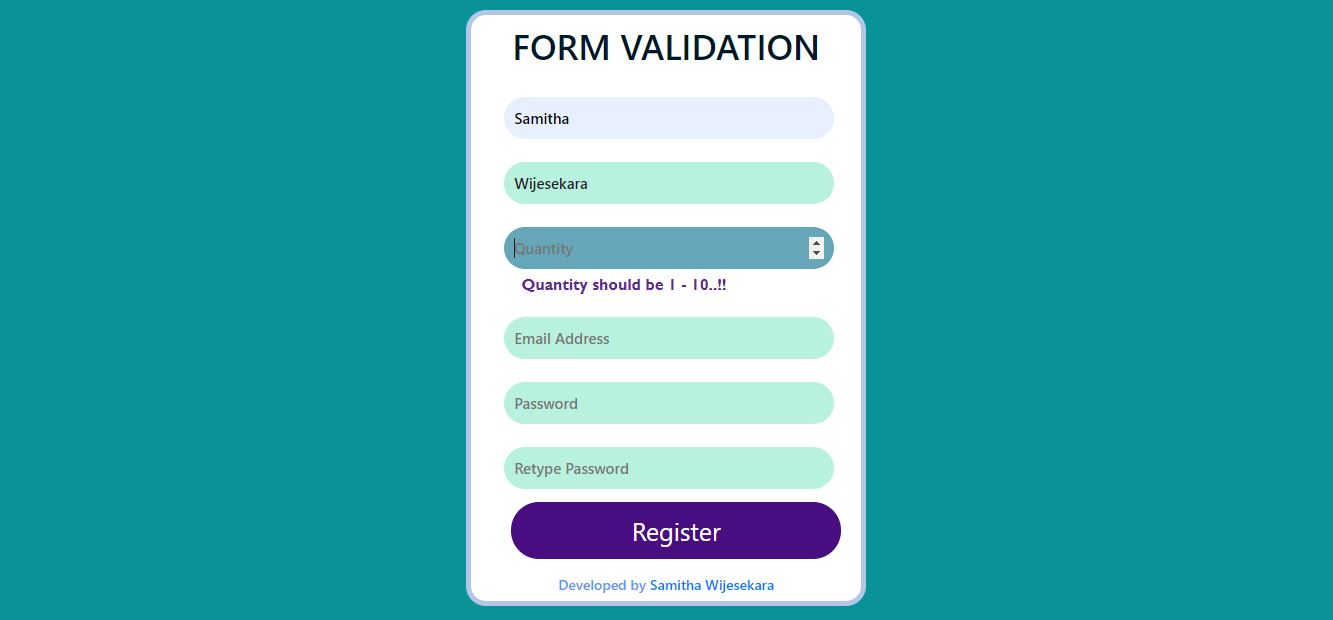
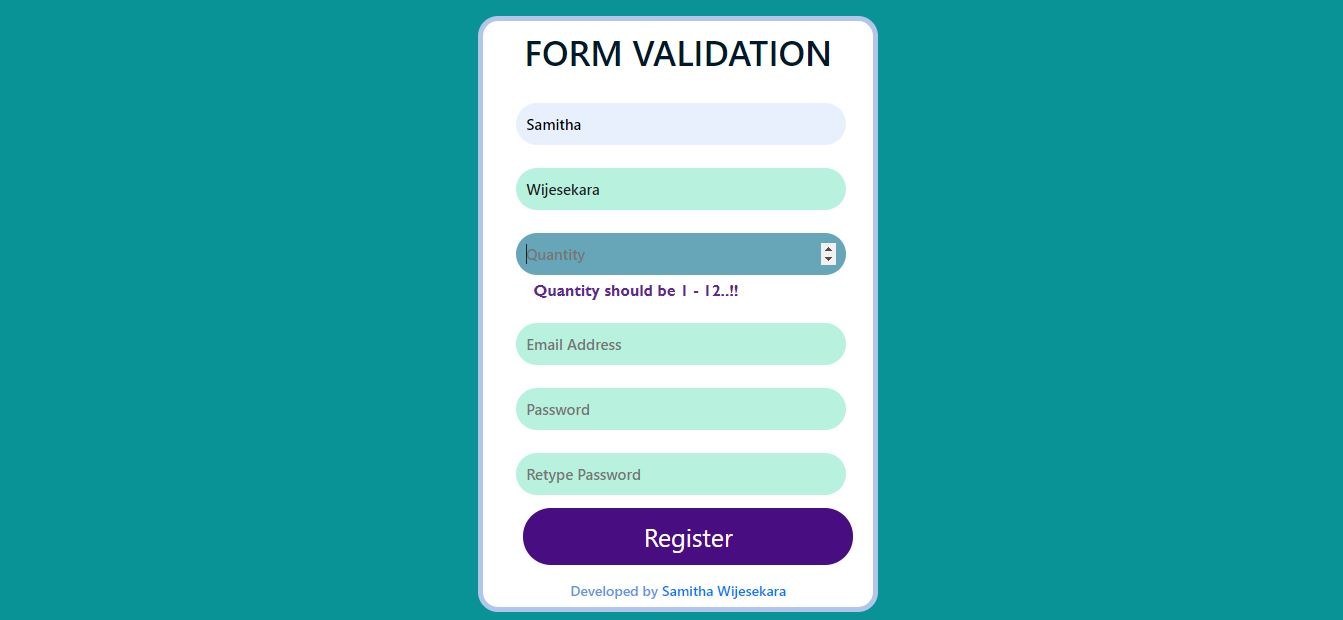
finalized bugs

Changed region(s): [[0.3383, 0.0, 0.6767, 1.0]]

diff --git a/script.js b/script.js
@@ -33,8 +33,8 @@ function register() {
 
 
 
-    if (quantity == "" || quantity < 0 || quantity > 11) {
-        document.getElementById("qtyError").innerHTML = "Quantity should be 1 - 10..!!";
+    if (quantity == "" || quantity < 1 || quantity > 12) {
+        document.getElementById("qtyError").innerHTML = "Quantity should be 1 - 12..!!";
         $(document).ready(function() {
             $("#qty").focus();
         });
